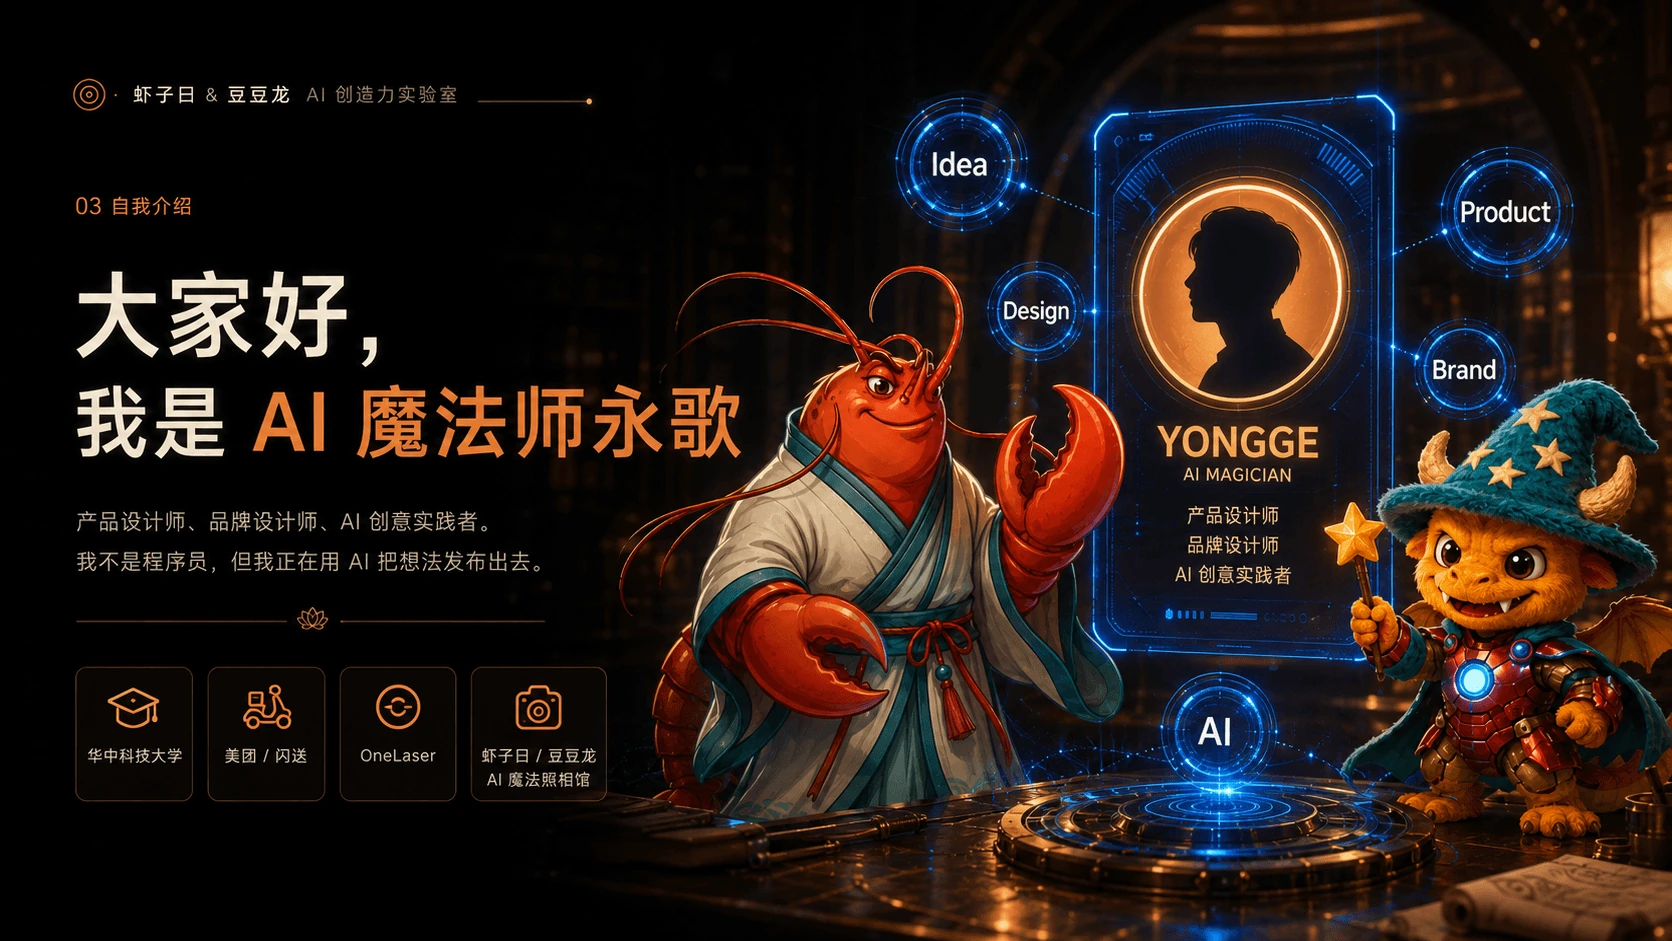
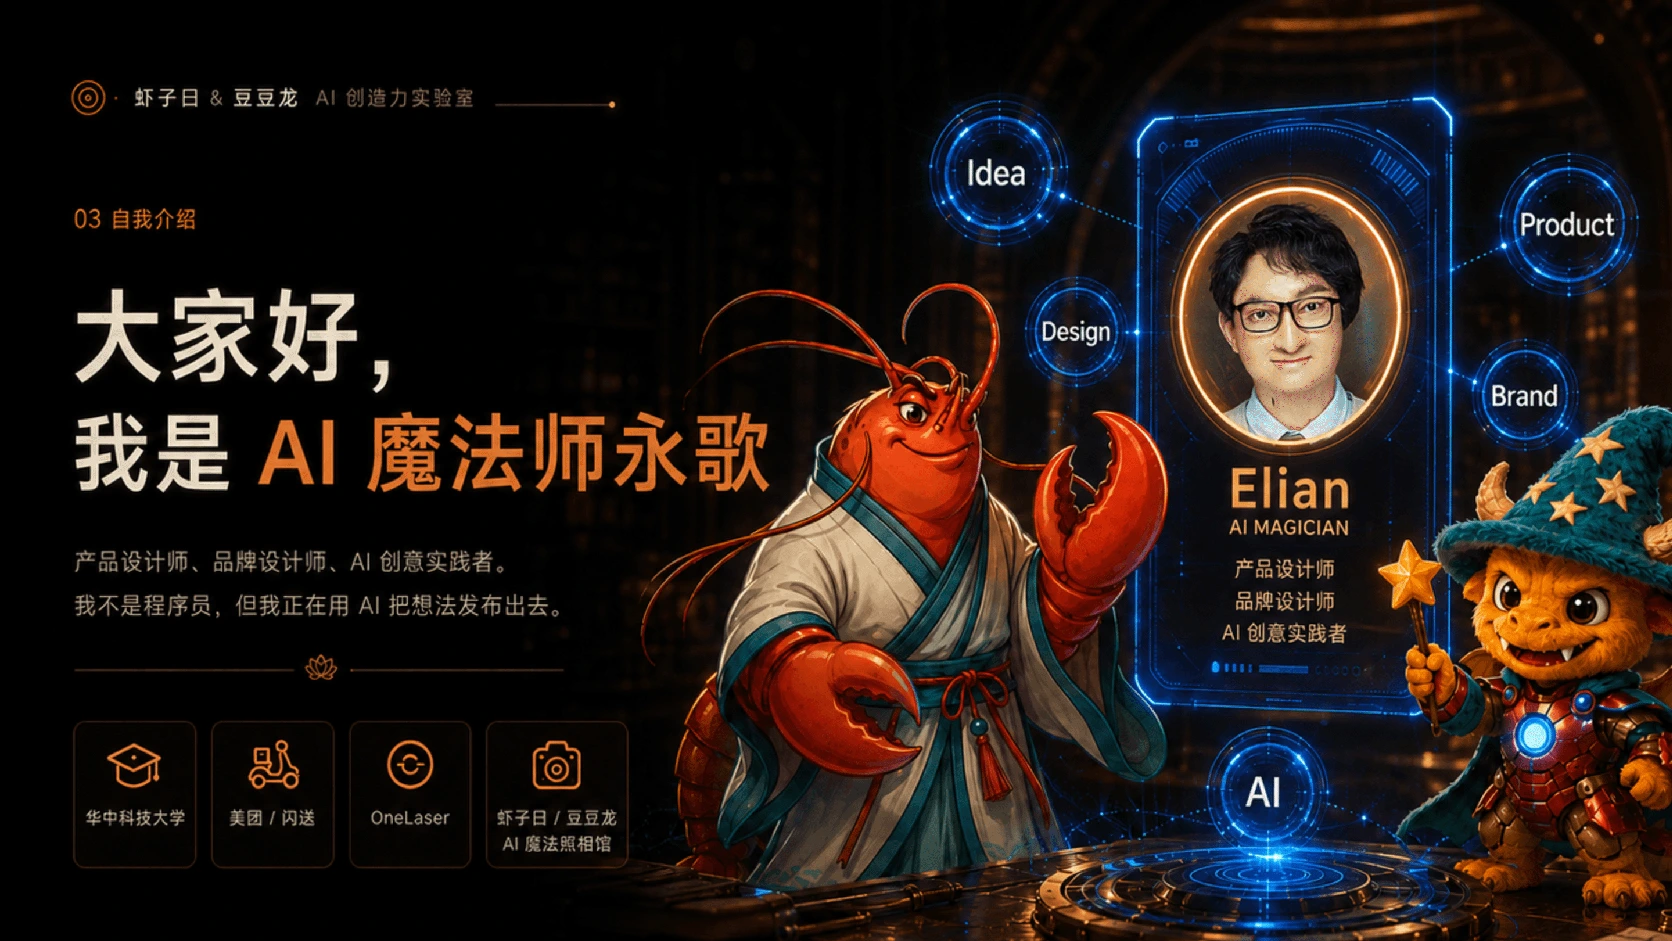
feat: update slides and presentation hotspots

diff --git a/src/styles.css b/src/styles.css
@@ -286,48 +286,6 @@ button {
   background: linear-gradient(90deg, rgba(255, 139, 61, 0.82), transparent);
 }
 
-.pollPanel {
-  position: absolute;
-  left: 5%;
-  bottom: 5%;
-  width: min(34%, 380px);
-  display: grid;
-  gap: 8px;
-  padding: 12px;
-  border: 1px solid rgba(255, 255, 255, 0.14);
-  border-radius: 8px;
-  background: rgba(0, 0, 0, 0.72);
-  box-shadow: 0 0 28px rgba(95, 212, 255, 0.14), inset 0 0 24px rgba(95, 212, 255, 0.06);
-  pointer-events: auto;
-}
-
-.pollPanel strong {
-  color: #ff8b3d;
-}
-
-.pollPanel button {
-  display: flex;
-  justify-content: space-between;
-  gap: 8px;
-  border: 1px solid rgba(255, 255, 255, 0.12);
-  border-radius: 6px;
-  padding: 8px;
-  background: rgba(255, 255, 255, 0.06);
-  color: #fff;
-  cursor: pointer;
-}
-
-.pollPanel button.leader {
-  border-color: rgba(255, 139, 61, 0.7);
-  box-shadow: 0 0 18px rgba(255, 139, 61, 0.2);
-}
-
-.pollPanel em {
-  color: #5fd4ff;
-  font-style: normal;
-  white-space: nowrap;
-}
-
 .modalShell {
   position: fixed;
   z-index: 60;
@@ -494,6 +452,65 @@ button {
   padding: 8px 10px;
   background: rgba(0, 0, 0, 0.6);
   color: #fff;
+}
+
+.qrReveal {
+  position: absolute;
+  z-index: 12;
+  width: 58px;
+  height: 58px;
+  transform: translate(-50%, -50%);
+  border: 1px solid rgba(255, 139, 61, 0.62);
+  border-radius: 999px;
+  background: rgba(8, 16, 24, 0.72);
+  color: #fff4dc;
+  cursor: pointer;
+  box-shadow: 0 0 22px rgba(255, 139, 61, 0.34), inset 0 0 18px rgba(95, 212, 255, 0.12);
+  animation: qrPulse 1.8s ease-in-out infinite;
+}
+
+.qrReveal span {
+  font-size: 13px;
+  font-weight: 700;
+}
+
+.qrPopup {
+  position: fixed;
+  inset: 0;
+  display: grid;
+  place-items: center;
+  gap: 14px;
+  padding: 28px;
+  background:
+    radial-gradient(circle at 50% 50%, rgba(95, 212, 255, 0.24), transparent 28%),
+    rgba(0, 0, 0, 0.78);
+  opacity: 0;
+  pointer-events: none;
+  transform: scale(0.94);
+  transition: opacity 260ms ease, transform 260ms ease;
+}
+
+.qrPopup img {
+  width: min(72vh, 560px);
+  max-width: 82vw;
+  border: 12px solid #fff;
+  border-radius: 18px;
+  background: #fff;
+  box-shadow: 0 34px 100px rgba(0, 0, 0, 0.72), 0 0 70px rgba(95, 212, 255, 0.42);
+}
+
+.qrPopup strong {
+  padding: 8px 16px;
+  border: 1px solid rgba(95, 212, 255, 0.46);
+  border-radius: 999px;
+  background: rgba(0, 0, 0, 0.62);
+  color: #fff;
+}
+
+.qrReveal:hover .qrPopup,
+.qrReveal:focus-visible .qrPopup {
+  opacity: 1;
+  transform: scale(1);
 }
 
 .controlsHidden {
@@ -1237,6 +1254,11 @@ button {
   }
 }
 
+@keyframes qrPulse {
+  0%, 100% { box-shadow: 0 0 18px rgba(255, 139, 61, 0.28), inset 0 0 18px rgba(95, 212, 255, 0.12); }
+  50% { box-shadow: 0 0 34px rgba(255, 139, 61, 0.5), 0 0 28px rgba(95, 212, 255, 0.24), inset 0 0 22px rgba(95, 212, 255, 0.18); }
+}
+
 @media (prefers-reduced-motion: reduce) {
   *,
   *::before,
@@ -1299,9 +1321,6 @@ button {
     width: calc(100vw - 24px);
   }
 
-  .pollPanel {
-    width: 88%;
-  }
 }
 
 .safeBadge {

diff --git a/src/components/InteractionOverlay.tsx b/src/components/InteractionOverlay.tsx
@@ -5,7 +5,6 @@ import type { Language } from "../data/deck";
 import {
   caseById,
   hotspotsForSlide,
-  pollOptions,
   sequenceForSlide,
   zahaLinks,
   type CaseStudy,
@@ -74,8 +73,6 @@ export function InteractionOverlay({
   onModal,
   onStep,
   onVote,
-  onPollLock,
-  onPollReset,
   onHotspotDebug,
   onFinaleExit,
   safeDemoMode,
@@ -94,8 +91,6 @@ export function InteractionOverlay({
   onModal: (modal: ModalState) => void;
   onStep: (step: number) => void;
   onVote: (option: "A" | "B" | "C") => void;
-  onPollLock: (locked: boolean) => void;
-  onPollReset: () => void;
   onHotspotDebug: (enabled: boolean) => void;
   onFinaleExit: () => void;
   safeDemoMode: boolean;
@@ -138,7 +133,6 @@ export function InteractionOverlay({
             </span>
           </button>
         ))}
-        {slideId === 19 && <PollPanel poll={poll} onVote={onVote} onLock={onPollLock} onReset={onPollReset} />}
         {slideId === 25 && finaleActive && (
           <div className="finaleOverlay">
             <div className="finaleGlow" />
@@ -159,46 +153,6 @@ export function InteractionOverlay({
       {modal?.type === "beforeAfter" && <BeforeAfterModal onClose={() => onModal(null)} />}
       {modal?.type === "video" && <VideoModal onClose={() => onModal(null)} />}
     </>
-  );
-}
-
-function PollPanel({
-  poll,
-  onVote,
-  onLock,
-  onReset,
-}: {
-  poll: PollState;
-  onVote: (option: "A" | "B" | "C") => void;
-  onLock: (locked: boolean) => void;
-  onReset: () => void;
-}) {
-  const total = Math.max(1, poll.counts.A + poll.counts.B + poll.counts.C);
-  const leader = pollOptions.reduce((best, item) => (poll.counts[item.id] > poll.counts[best] ? item.id : best), "A" as "A" | "B" | "C");
-
-  return (
-    <aside className="pollPanel">
-      <strong>{poll.locked ? "最终结果" : "现场选择"}</strong>
-      {pollOptions.map((option) => {
-        const percent = Math.round((poll.counts[option.id] / total) * 100);
-        return (
-          <button
-            type="button"
-            key={option.id}
-            className={leader === option.id ? "leader" : ""}
-            disabled={poll.locked}
-            onClick={() => onVote(option.id)}
-          >
-            <span>{option.id} {option.title}</span>
-            <em>{poll.counts[option.id]} 票 · {percent}%</em>
-          </button>
-        );
-      })}
-      <div>
-        <button type="button" onClick={() => onLock(!poll.locked)}>{poll.locked ? "解锁" : "锁定"}</button>
-        <button type="button" onClick={onReset}>重置</button>
-      </div>
-    </aside>
   );
 }
 

diff --git a/src/App.tsx b/src/App.tsx
@@ -7,6 +7,7 @@ import { SlideImage } from "./components/SlideImage";
 import { slides, type Language } from "./data/deck";
 import { emptyPollState, sequenceForSlide, type Hotspot, type PollState } from "./data/interactions";
 import { createPresentationChannel, type PresentationMessage } from "./presentationChannel";
+import { assetPath } from "./path";
 import {
   applyTimerSnapshot,
   getTimerSnapshot,
@@ -139,6 +140,26 @@ function InteractionLayer({ rect }: { rect: ImageDisplayRect }) {
         height: rect.height,
       }}
     />
+  );
+}
+
+function QrReveal({ rect }: { rect: ImageDisplayRect }) {
+  return (
+    <button
+      className="qrReveal"
+      type="button"
+      aria-label="显示微信二维码"
+      style={{
+        left: rect.x + rect.width * 0.78,
+        top: rect.y + rect.height * 0.75,
+      }}
+    >
+      <span>扫码</span>
+      <div className="qrPopup" aria-hidden="true">
+        <img src={assetPath("/qr/wechat.jpg")} alt="" />
+        <strong>扫码加我为好友</strong>
+      </div>
+    </button>
   );
 }
 
@@ -740,13 +761,12 @@ export default function App() {
           }}
           onStep={(step) => setSlideStep(currentIndex + 1, step)}
           onVote={vote}
-          onPollLock={setPollLocked}
-          onPollReset={resetPoll}
           onHotspotDebug={setHotspotDebug}
           onFinaleExit={() => setFinaleActive(false)}
           safeDemoMode={safeDemoMode}
           online={online}
         />
+        {currentIndex === 24 && <QrReveal rect={rect} />}
       </div>
       <MagicTrail />
 

diff --git a/src/data/interactions.ts b/src/data/interactions.ts
@@ -107,7 +107,7 @@ export const hotspots: Hotspot[] = [
   { id: "s7-flow-4", slideId: 7, x: 69, y: 66, width: 8, height: 9, label: label("缓存排查"), type: "sequence", visibleStyle: "outline" },
   { id: "s7-flow-5", slideId: 7, x: 80, y: 66, width: 8, height: 9, label: label("线上验证"), type: "sequence", visibleStyle: "outline" },
 
-  { id: "s8-family", slideId: 8, x: 41, y: 19, width: 15, height: 39, label: label("Family Growth Tree"), type: "openCase", payloadId: "familyGrowthTree", visibleStyle: "outline" },
+  { id: "s8-family", slideId: 8, x: 50, y: 18, width: 14, height: 40, label: label("Family Growth Tree"), type: "openCase", payloadId: "familyGrowthTree", visibleStyle: "outline" },
   { id: "s8-zaha", slideId: 8, x: 59, y: 15, width: 15, height: 44, label: label("扎哈互动页面"), type: "openCase", payloadId: "zaha", visibleStyle: "outline" },
   { id: "s8-worldcup", slideId: 8, x: 76, y: 18, width: 15, height: 42, label: label("世界杯比分预测"), type: "openCase", payloadId: "worldCup", visibleStyle: "outline" },
 
@@ -117,9 +117,14 @@ export const hotspots: Hotspot[] = [
   { id: "s11-system", slideId: 11, x: 47, y: 55, width: 18, height: 24, label: label("在线协作系统"), type: "openCase", payloadId: "oneLaserBooth", visibleStyle: "outline" },
   { id: "s11-screen", slideId: 11, x: 70, y: 51, width: 18, height: 24, label: label("主展会方案大屏"), type: "openCase", payloadId: "oneLaserBooth", visibleStyle: "outline" },
 
-  ...["竞品情报", "全球热点", "产品资料", "创意机会", "广告 Brief", "文案视觉", "投放测试", "数据反馈"].map((name, i) => ({
-    id: `s12-step-${i + 1}`, slideId: 12, x: 32 + (i % 4) * 14, y: i < 4 ? 14 : 55, width: 11, height: 18, label: label(name), type: "sequence" as InteractionType, visibleStyle: "outline" as const,
-  })),
+  { id: "s12-step-1", slideId: 12, x: 50, y: 9, width: 10, height: 18, label: label("竞品情报"), type: "sequence", visibleStyle: "outline" },
+  { id: "s12-step-2", slideId: 12, x: 67, y: 8, width: 10, height: 18, label: label("全球热点"), type: "sequence", visibleStyle: "outline" },
+  { id: "s12-step-3", slideId: 12, x: 82, y: 12, width: 11, height: 18, label: label("产品资料"), type: "sequence", visibleStyle: "outline" },
+  { id: "s12-step-4", slideId: 12, x: 88, y: 34, width: 10, height: 18, label: label("创意机会"), type: "sequence", visibleStyle: "outline" },
+  { id: "s12-step-5", slideId: 12, x: 85, y: 56, width: 11, height: 18, label: label("广告 Brief"), type: "sequence", visibleStyle: "outline" },
+  { id: "s12-step-6", slideId: 12, x: 63, y: 61, width: 11, height: 18, label: label("文案视觉"), type: "sequence", visibleStyle: "outline" },
+  { id: "s12-step-7", slideId: 12, x: 45, y: 56, width: 11, height: 18, label: label("投放测试"), type: "sequence", visibleStyle: "outline" },
+  { id: "s12-step-8", slideId: 12, x: 43, y: 34, width: 10, height: 18, label: label("数据反馈"), type: "sequence", visibleStyle: "outline" },
   { id: "s12-loop", slideId: 12, x: 52, y: 34, width: 13, height: 17, label: label("中央闭环"), type: "sequence", visibleStyle: "outline" },
 
   ...["登录确认", "授权确认", "支付确认", "删除确认", "正式发布确认"].map((name, i) => ({
@@ -137,9 +142,11 @@ export const hotspots: Hotspot[] = [
   { id: "s20-video", slideId: 20, x: 34, y: 75, width: 14, height: 9, label: label("备用 Demo 视频"), type: "openVideo", visibleStyle: "outline" },
   { id: "s20-before-after", slideId: 20, x: 50, y: 75, width: 16, height: 9, label: label("查看修改前后"), type: "beforeAfter", visibleStyle: "outline" },
 
-  ...["1", "Codex", "Claude Code", "WorkBuddy", "AI Agent"].map((name, i) => ({
-    id: `s24-onezero-${i + 1}`, slideId: 24, x: i === 0 ? 44 : 54 + (i - 1) * 7.5, y: 18, width: i === 0 ? 10 : 7, height: 57, label: label(name), type: "sequence" as InteractionType, visibleStyle: "outline" as const,
-  })),
+  { id: "s24-onezero-1", slideId: 24, x: 53, y: 17, width: 9, height: 50, label: label("1"), type: "sequence", visibleStyle: "outline" },
+  { id: "s24-onezero-2", slideId: 24, x: 67, y: 28, width: 8, height: 33, label: label("Codex"), type: "sequence", visibleStyle: "outline" },
+  { id: "s24-onezero-3", slideId: 24, x: 75, y: 31, width: 7, height: 29, label: label("Claude Code"), type: "sequence", visibleStyle: "outline" },
+  { id: "s24-onezero-4", slideId: 24, x: 82, y: 34, width: 7, height: 27, label: label("WorkBuddy"), type: "sequence", visibleStyle: "outline" },
+  { id: "s24-onezero-5", slideId: 24, x: 88, y: 36, width: 7, height: 25, label: label("AI Agent"), type: "sequence", visibleStyle: "outline" },
 
   { id: "s25-finale", slideId: 25, x: 62, y: 24, width: 23, height: 48, label: label("最终定格"), type: "finale", visibleStyle: "none" },
 ];

diff --git a/public/sw.js b/public/sw.js
@@ -1,4 +1,4 @@
-const CACHE = "jarvis-presentation-v2";
+const CACHE = "jarvis-presentation-v4";
 const STATIC_PATHS = [
   "",
   "slides/zh/01.webp", "slides/zh/02.webp", "slides/zh/03.webp", "slides/zh/04.webp", "slides/zh/05.webp",
@@ -16,9 +16,9 @@ const STATIC_PATHS = [
   "slides/zh-thumbs/11.webp", "slides/zh-thumbs/12.webp", "slides/zh-thumbs/13.webp", "slides/zh-thumbs/14.webp", "slides/zh-thumbs/15.webp",
   "slides/zh-thumbs/16.webp", "slides/zh-thumbs/17.webp", "slides/zh-thumbs/18.webp", "slides/zh-thumbs/19.webp", "slides/zh-thumbs/20.webp",
   "slides/zh-thumbs/21.webp", "slides/zh-thumbs/22.webp", "slides/zh-thumbs/23.webp", "slides/zh-thumbs/24.webp", "slides/zh-thumbs/25.webp",
-  "case-previews/pluto.webp", "case-previews/quote-log.webp", "case-previews/family-growth-tree.webp",
+  "case-previews/pluto.webp", "case-previews/catch-game.webp", "case-previews/quote-log.webp", "case-previews/family-growth-tree.webp",
   "case-previews/zaha.webp", "case-previews/onelaser-booth.webp", "case-previews/world-cup.webp",
-  "demo/before.webp", "demo/after.webp",
+  "demo/before.webp", "demo/after.webp", "qr/wechat.jpg",
 ];
 
 const scoped = (path) => new URL(path, self.registration.scope).toString();

diff --git a/src/assets.ts b/src/assets.ts
@@ -7,6 +7,9 @@ export const afterAsset = "/demo/after.webp";
 
 export const casePreviewAssets: Record<string, string> = {
   websites: "/case-previews/pluto.webp",
+  games: "/case-previews/catch-game.webp",
+  english: "/case-previews/quote-log.webp",
+  booth: "/case-previews/onelaser-booth.webp",
   pluto: "/case-previews/pluto.webp",
   quoteLog: "/case-previews/quote-log.webp",
   interactive: "/case-previews/zaha.webp",